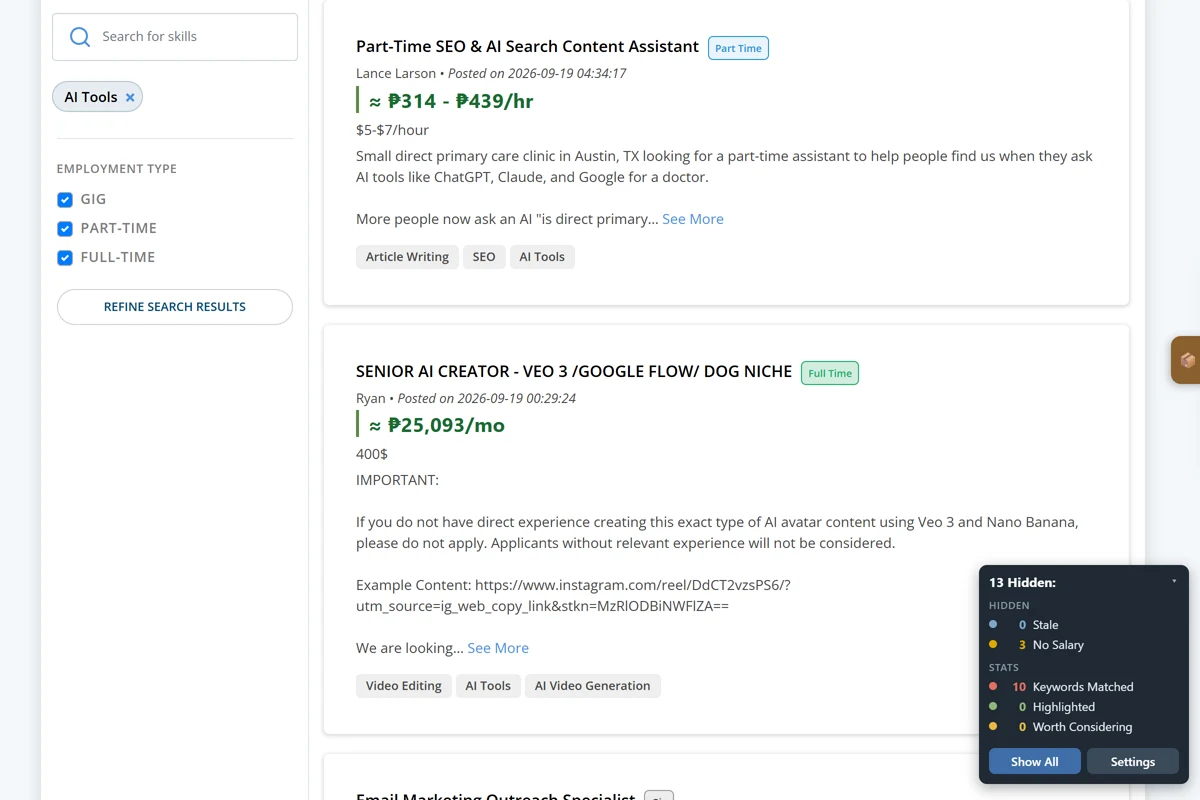
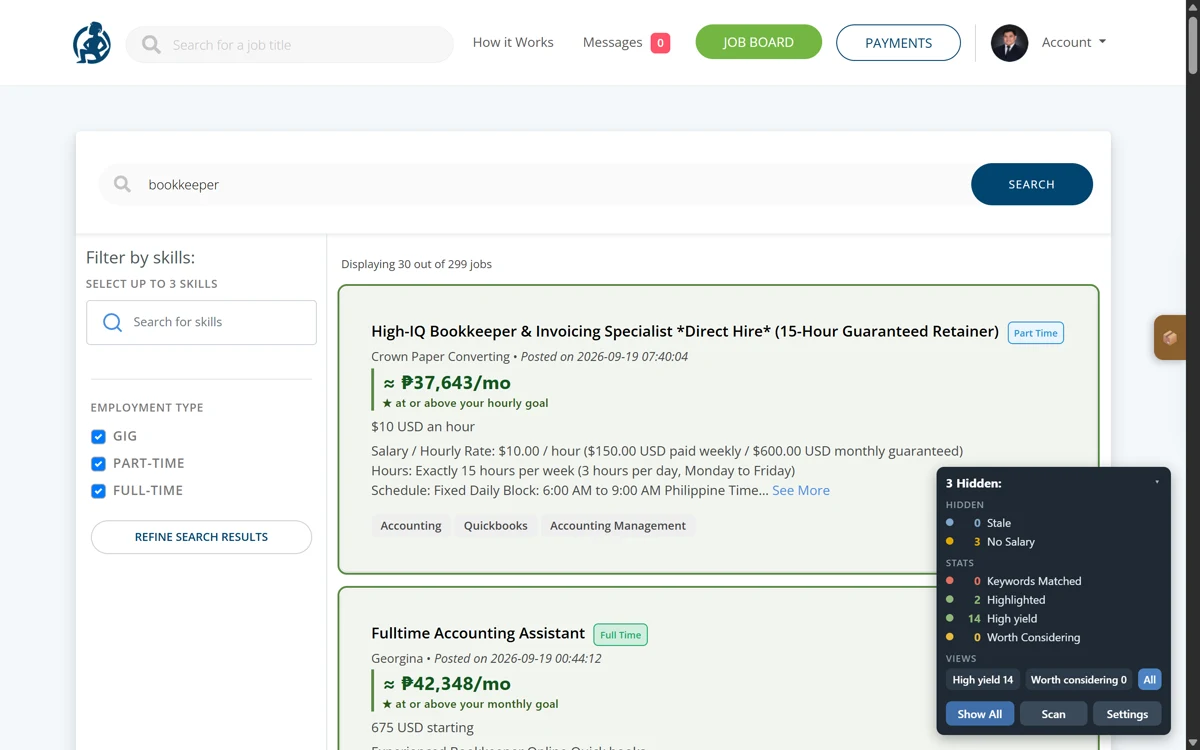
OJ.ph Cleaner card: fresh screenshots, and the two capabilities that landed since
Screenshots recaptured from the live site with the extension running (v0.9.0), replacing
the captures of the older UI:
- the list with the status panel now showing tier counts and the Scan button
- the settings panel open over the live list, including salary goals and the deep-scan toggles
- one card up close: keyword badge, converted figure, goal line, and the site's own rate

Copy: two new fix lines (Scan re-decides each listing from its full description, cached so a
keyword edit costs no requests; pay decides High yield while a keyword only decorates) and
the measured self-inflicted failure that produced that rule — an earlier version demoted
off-platform listings and moved 176 of 227 out of High yield.

diff --git a/index.html b/index.html
@@ -582,6 +582,7 @@ footer a:hover{color:var(--gold)}
           <li>Staleness is invisible until you're pages deep: a 297-job search ran <strong><span class="mk pain">40&ndash;46 days old</span></strong></li>
           <li>A naive keyword filter destroys itself &mdash; <code>AI</code> as a substring matched <strong>every listing</strong></li>
           <li>Every screening decision is thrown away, so the same judgement gets paid for again tomorrow</li>
+          <li>The card is not the listing: the keyword, the off-platform ask and the real hours are all in the description</li>
         </ul>
           </div>
           <div class="psi-item fix">
@@ -591,6 +592,7 @@ footer a:hover{color:var(--gold)}
           <li>A hated keyword on an otherwise good job shows in <strong>yellow</strong> to reconsider</li>
           <li>Exact word-or-phrase matching, not substrings</li>
           <li>A recency window applied first, and salaries normalised at live ECB rates</li>
+          <li><code>Scan</code> opens each listing and re-decides it against its full description &mdash; two at a time, capped, and cached for 7 days so <span class="u">changing a keyword costs no requests</span></li>
           <li>One page appended per scroll &mdash; eight <em>Next</em> clicks, gone</li>
         </ul>
           </div>
@@ -600,14 +602,15 @@ footer a:hover{color:var(--gold)}
           <li>Screening effort <span class="mk win">stops scaling with market volume</span></li>
           <li>Every mark on the page names its reason</li>
           <li>A filter you can't audit is one you stop trusting</li>
+          <li>An earlier version demoted off-platform listings and moved <strong><span class="mk pain">176 of 227</span></strong> out of High yield &mdash; a filter that had stopped filtering. Now pay decides, and a keyword only decorates</li>
           <li>It refuses to guess: a part-time hourly rate with no stated hours keeps its hourly figure, and the 40 h/week assumption is printed on the card</li>
         </ul>
           </div>
         </div>
         <div class="proj-imgs">
-          <figure><img src="img/ojph-list.webp" alt="OnlineJobs.ph listings with salaries normalised to a monthly figure, unwanted listings hidden, and a matching listing outlined in green" loading="lazy"></figure>
-          <figure><img src="img/ojph-settings.webp" alt="The in-page settings panel: a recency window, and separate negative and positive keyword lists" loading="lazy"></figure>
-          <figure><img src="img/ojph-highlight.webp" alt="Listings badged with the keyword that matched, a monthly-goal annotation, and a status chip counting what was hidden" loading="lazy"></figure>
+          <figure><img src="img/ojph-list.webp" alt="OnlineJobs.ph listings with salaries normalised to a monthly figure, unwanted listings hidden, and a status panel showing hidden, keyword and high-yield counts" loading="lazy"></figure>
+          <figure><img src="img/ojph-settings.webp" alt="The in-page settings panel open over the live list: recency window, separate negative and positive keyword lists, salary goals and the deep-scan toggles" loading="lazy"></figure>
+          <figure><img src="img/ojph-card.webp" alt="A single listing showing the keyword badge, the converted hourly figure, an at-or-above-your-goal line, and the site's own posted rate underneath" loading="lazy"></figure>
         </div>
         <div class="metrics">
           <div><b>40&ndash;46 d</b><span>Staleness found deep in results</span></div>
